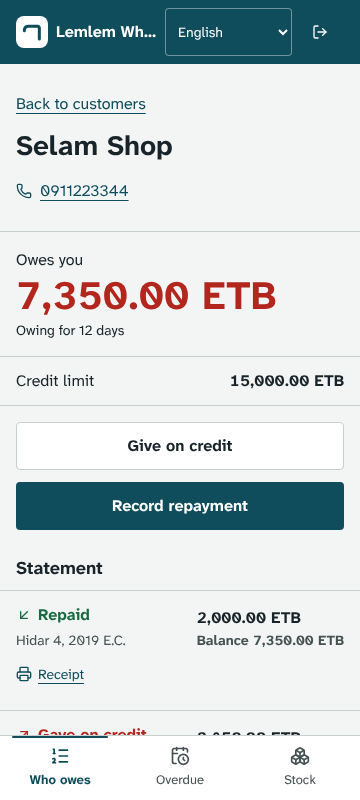
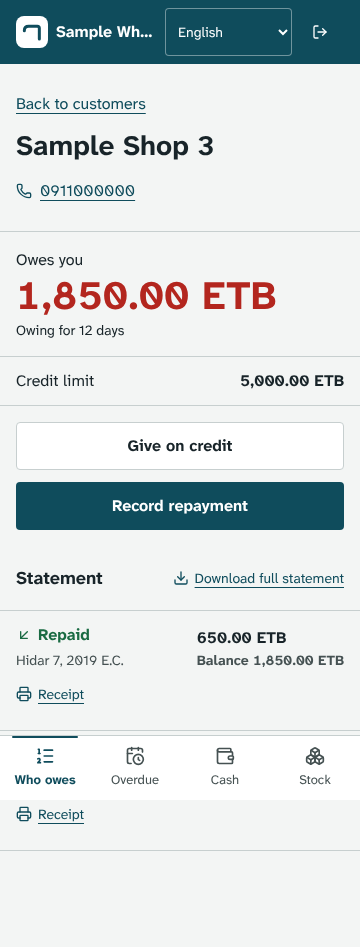
Download one shop's full statement as CSV from its page, with the running balance (any member of the business)

diff --git a/src/server/dal/export.ts b/src/server/dal/export.ts
@@ -24,13 +24,17 @@ async function readAll<T>(page: (from: number, to: number) => PromiseLike<{ data
 
 export type ExportAccess = "ok" | "logged_out" | "not_allowed";
 
-/** Only the owner or a manager may download the whole book. */
-export async function checkExportAccess(): Promise<ExportAccess> {
+/**
+ * Only the owner or a manager may download the whole book (`book`); any active member may
+ * download one shop's statement (`statement`), which they can already see on screen.
+ */
+export async function checkExportAccess(scope: "book" | "statement" = "book"): Promise<ExportAccess> {
   const userId = await getUserId();
   if (!userId) return "logged_out";
   const supabase = await createClient();
   const { data } = await supabase.from("profiles").select("role, active").eq("user_id", userId).maybeSingle();
-  if (!data?.active || (data.role !== "owner" && data.role !== "manager")) return "not_allowed";
+  if (!data?.active) return "not_allowed";
+  if (scope === "book" && data.role !== "owner" && data.role !== "manager") return "not_allowed";
   return "ok";
 }
 
@@ -171,4 +175,37 @@ export async function buildExport(kind: ExportKind): Promise<string> {
     case "items":
       return itemsCsv(supabase);
   }
+}
+
+/**
+ * One shop's full statement (every debt and repayment with the running balance), oldest first.
+ * Null when the customer is not in the caller's business (RLS hides it).
+ */
+export async function buildStatementExport(customerId: string): Promise<string | null> {
+  const supabase = await createClient();
+  const { data: customer, error } = await supabase
+    .from("customers")
+    .select("id, name, phone")
+    .eq("id", customerId)
+    .maybeSingle();
+  if (error) throw new Error("export_load_failed");
+  if (!customer) return null;
+
+  const rows = await readAll((from, to) =>
+    supabase
+      .from("wh_customer_statement")
+      .select("id, type, amount, balance_after, created_at, due_date, note")
+      .eq("customer_id", customerId)
+      .order("created_at")
+      .order("id")
+      .range(from, to),
+  );
+  return toCsv(
+    [...DATE_HEADER, "customer", "phone", "type", "amount", "balance_after", "pay_back_by", "note"],
+    rows.flatMap((r) =>
+      r.created_at
+        ? [[...dateCells(r.created_at), customer.name, customer.phone, r.type, r.amount, r.balance_after, r.due_date, r.note]]
+        : [],
+    ),
+  );
 }

diff --git a/src/app/[locale]/(app)/customers/[id]/page.tsx b/src/app/[locale]/(app)/customers/[id]/page.tsx
@@ -1,6 +1,6 @@
 import { notFound } from "next/navigation";
 import { getTranslations, setRequestLocale } from "next-intl/server";
-import { ArrowDownLeft, ArrowUpRight, Check, Phone, Printer, TriangleAlert } from "lucide-react";
+import { ArrowDownLeft, ArrowUpRight, Check, Download, Phone, Printer, TriangleAlert } from "lucide-react";
 import { Button } from "@/components/ui/button";
 import { Link } from "@/i18n/navigation";
 import type { AppLocale } from "@/i18n/routing";
@@ -84,7 +84,19 @@ export default async function CustomerPage({ params }: PageProps<"/[locale]/cust
       </div>
 
       <section className="mt-6">
-        <h2 className="px-4 text-lg font-bold md:px-0">{t("statement")}</h2>
+        <div className="flex flex-wrap items-center justify-between gap-x-4 px-4 md:px-0">
+          <h2 className="text-lg font-bold">{t("statement")}</h2>
+          {statement.length > 0 ? (
+            <a
+              href={`/api/export/statement/${customer.id}`}
+              download
+              className="inline-flex min-h-12 items-center gap-1.5 text-sm text-tarp underline underline-offset-4"
+            >
+              <Download className="size-4" aria-hidden />
+              {t("downloadStatement")}
+            </a>
+          ) : null}
+        </div>
         {statement.length === 0 ? (
           <p className="px-4 py-4 md:px-0">{t("statementEmpty")}</p>
         ) : (

diff --git a/src/app/api/export/statement/[id]/route.ts b/src/app/api/export/statement/[id]/route.ts
@@ -1,0 +1,31 @@
+import { addisToday } from "@/lib/daily-cash";
+import { statementFileName } from "@/lib/csv";
+import { buildStatementExport, checkExportAccess } from "@/server/dal/export";
+import { uuidParam } from "@/server/validation";
+
+/** Download one shop's full statement as CSV (any active member of the business). */
+export async function GET(_request: Request, { params }: RouteContext<"/api/export/statement/[id]">) {
+  const { id } = await params;
+  if (!uuidParam.safeParse(id).success) return new Response("Not found", { status: 404 });
+
+  const access = await checkExportAccess("statement");
+  if (access === "logged_out") return new Response("Unauthorized", { status: 401 });
+  if (access === "not_allowed") return new Response("Forbidden", { status: 403 });
+
+  let body: string | null;
+  try {
+    body = await buildStatementExport(id);
+  } catch {
+    return new Response("Export failed", { status: 500 });
+  }
+  if (body === null) return new Response("Not found", { status: 404 });
+
+  return new Response(body, {
+    headers: {
+      "Content-Type": "text/csv; charset=utf-8",
+      "Content-Disposition": `attachment; filename="${statementFileName(id, addisToday())}"`,
+      "Cache-Control": "private, no-store",
+      "X-Content-Type-Options": "nosniff",
+    },
+  });
+}

diff --git a/src/lib/csv.test.ts b/src/lib/csv.test.ts
@@ -1,5 +1,5 @@
 import { describe, expect, it } from "vitest";
-import { addisDay, addisTime, exportFileName, isExportKind, toCsv } from "./csv";
+import { addisDay, addisTime, exportFileName, isExportKind, statementFileName, toCsv } from "./csv";
 
 describe("toCsv", () => {
   it("starts with a BOM and ends every line with CRLF", () => {
@@ -48,5 +48,13 @@ describe("export kinds", () => {
   });
   it("builds an ASCII file name", () => {
     expect(exportFileName("ledger", "2026-11-17")).toBe("galmee-wholesale-ledger-2026-11-17.csv");
+  });
+});
+
+describe("statementFileName", () => {
+  it("uses the first 8 hex digits of the customer id", () => {
+    expect(statementFileName("3F2A9C01-1111-4222-8333-444455556666", "2026-11-17")).toBe(
+      "galmee-wholesale-statement-3f2a9c01-2026-11-17.csv",
+    );
   });
 });

diff --git a/src/lib/csv.ts b/src/lib/csv.ts
@@ -42,3 +42,8 @@ export function isExportKind(value: string): value is ExportKind {
 export function exportFileName(kind: ExportKind, day: string): string {
   return `galmee-wholesale-${kind}-${day}.csv`;
 }
+
+/** File name for one shop's statement, e.g. galmee-wholesale-statement-3f2a9c01-2026-11-17.csv. */
+export function statementFileName(customerId: string, day: string): string {
+  return `galmee-wholesale-statement-${customerId.replace(/[^0-9a-f]/gi, "").slice(0, 8).toLowerCase()}-${day}.csv`;
+}
